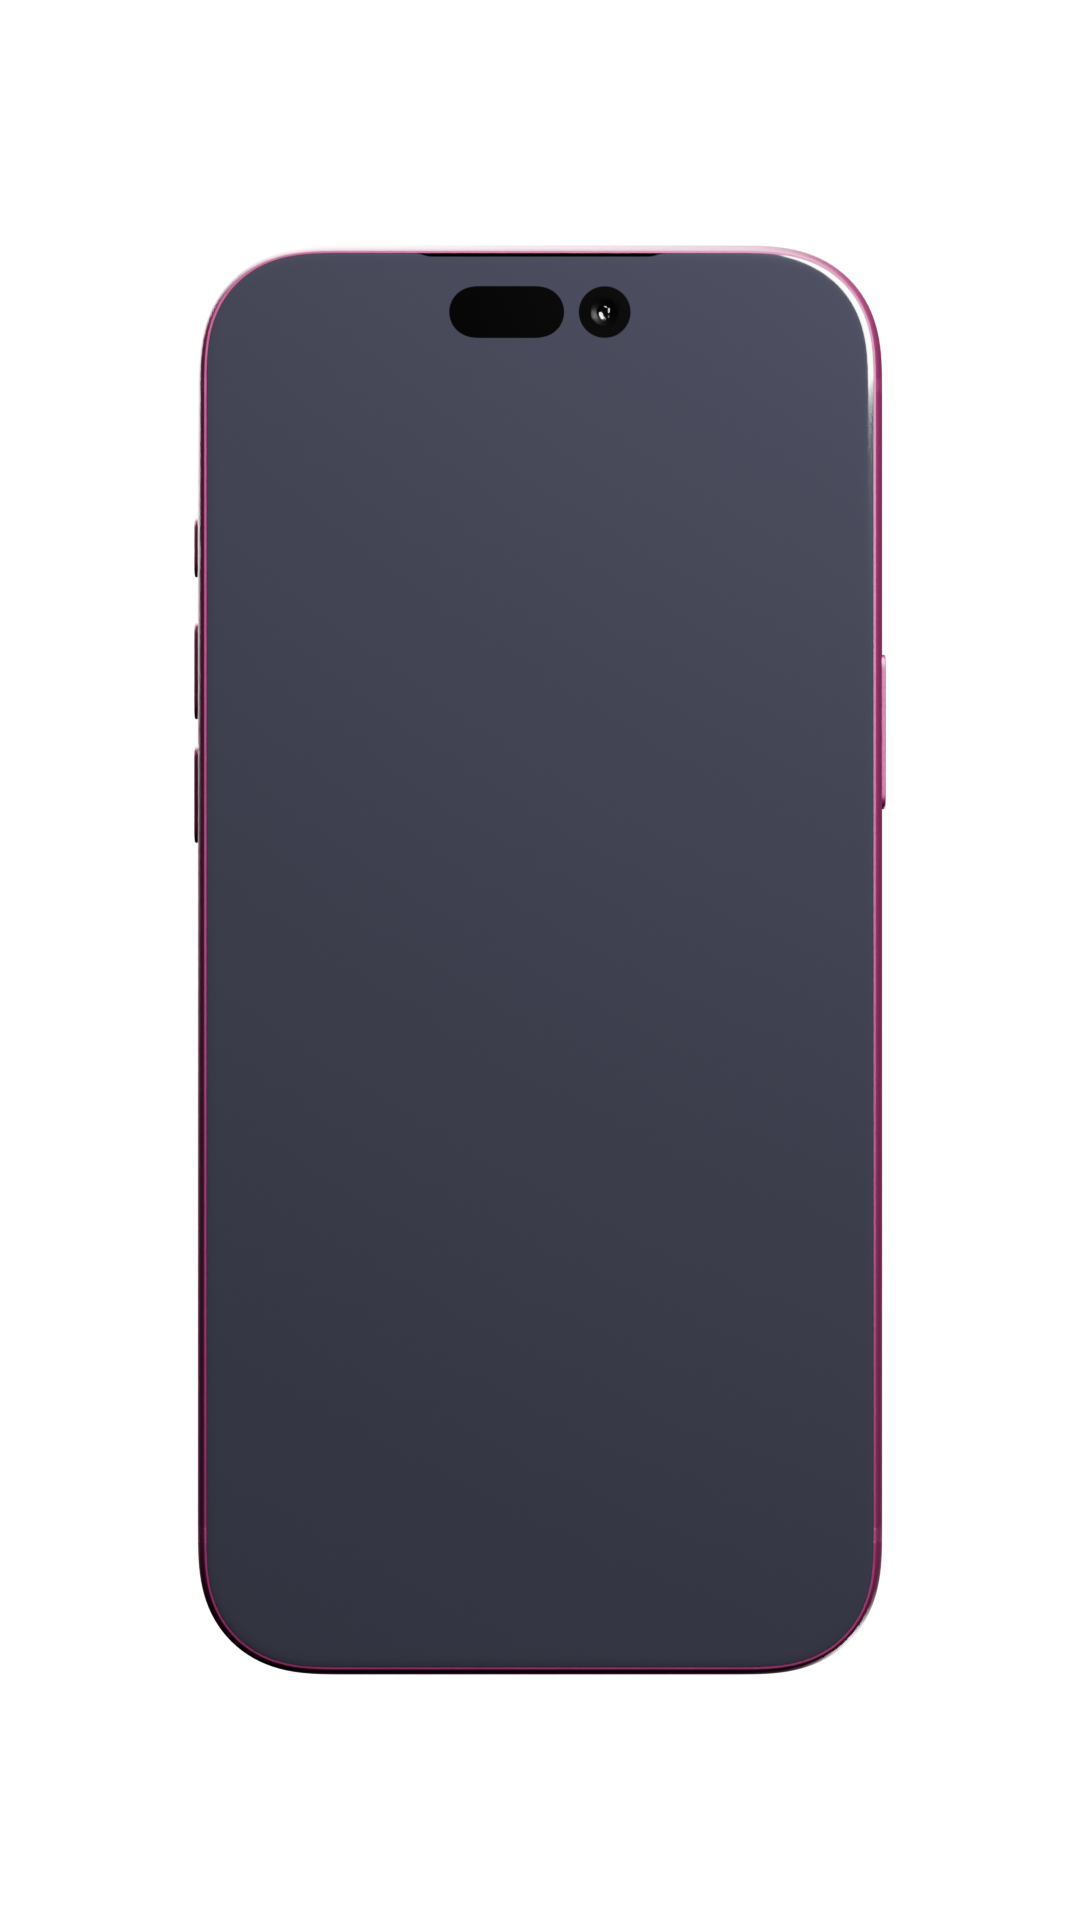
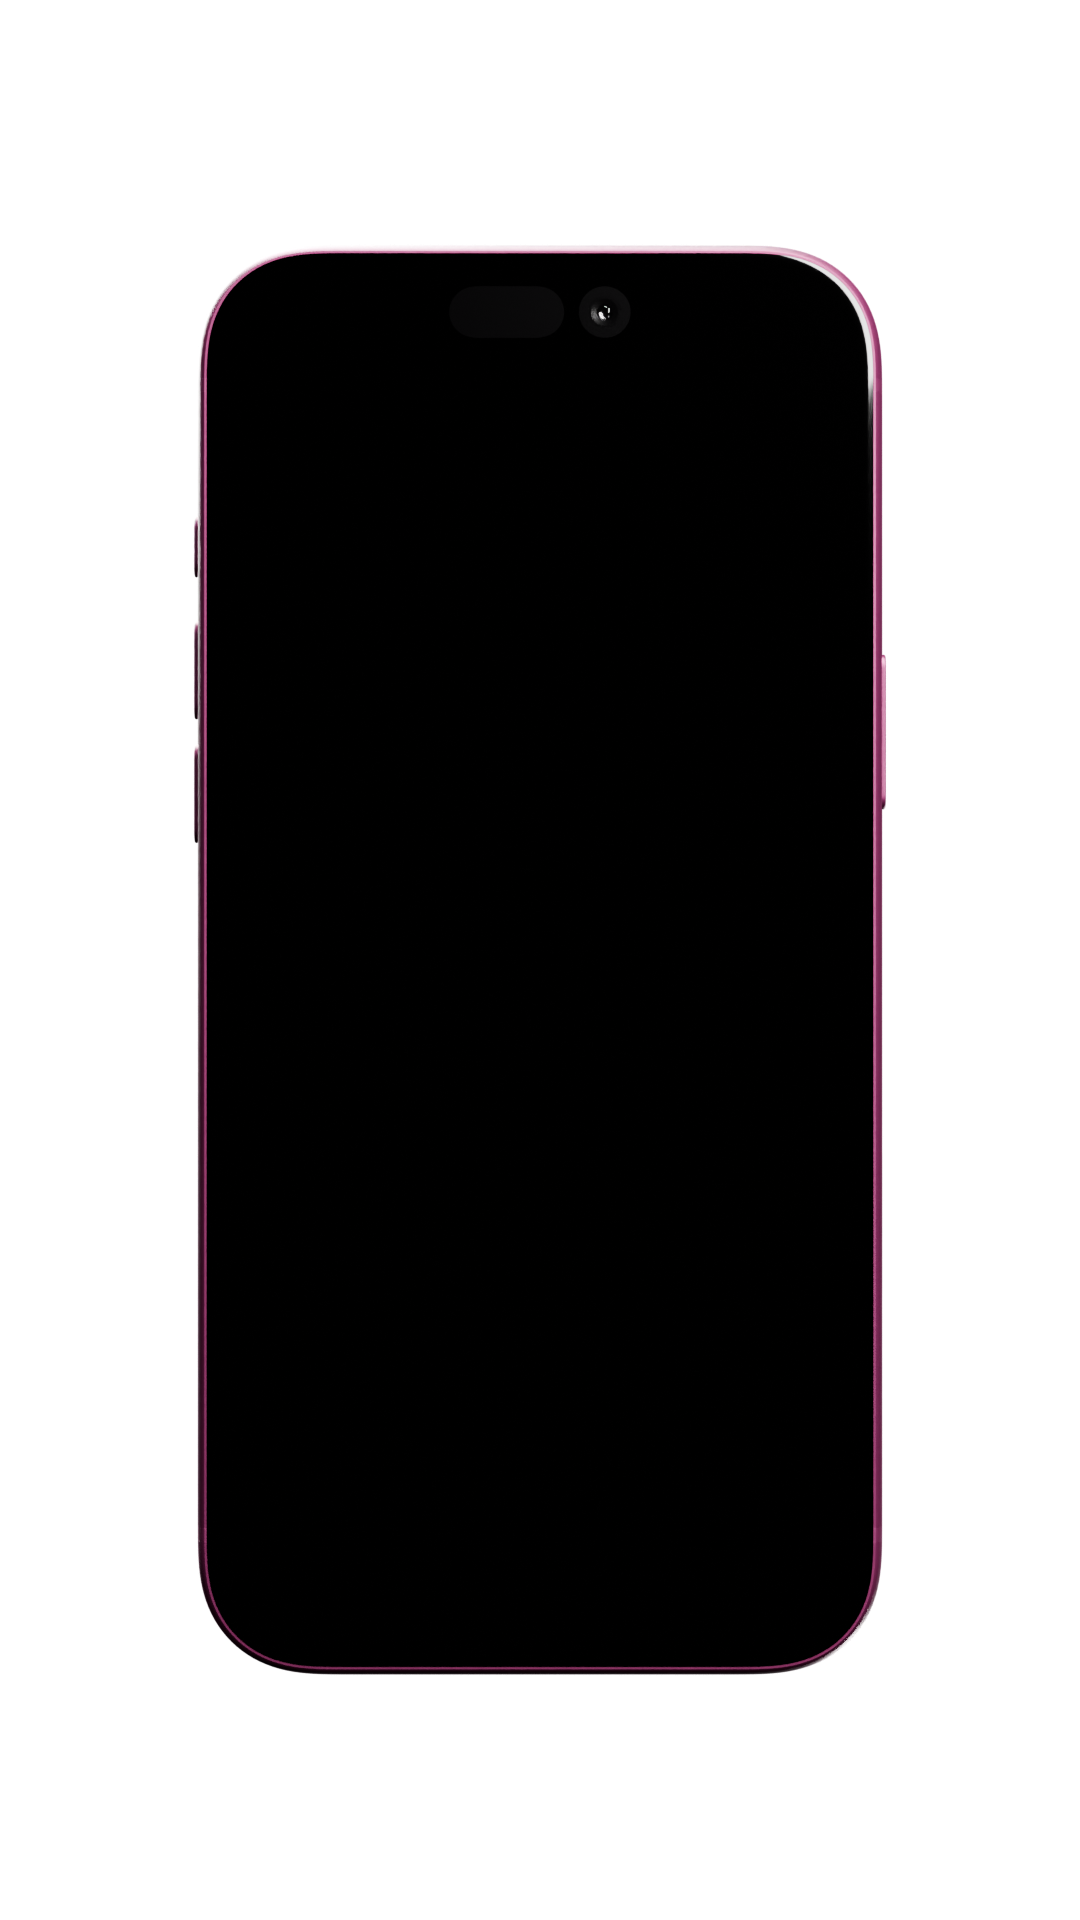
feat(web): hero-композит по-взрослому — дисплей 1:1, чёрный экран, стекло
- новый рендер still_front с ЧЁРНЫМ глянцевым экраном (вместо серой пелены)
- CSS-коробка экрана = проекция ДИСПЛЕЯ из screen_rect.json (аспект 0.4617
  ≈ видео 0.4602) — видео ложится 1:1, вокруг родная чёрная рамка стекла;
  ни полос, ни растяжения
- hero-gloss.webp: кроп дисплея из рендера в mix-blend-mode:screen поверх
  видео — блик линзы фронталки и шин стекла (экран перестал быть наклейкой)
- бейджи/остров пересчитаны под новую коробку

Claude-Session: https://claude.ai/code/session_013PeV2N6Q2ZLNeHFJUt7EWi

diff --git a/web/index.html b/web/index.html
@@ -162,27 +162,31 @@ nav.scrolled{
 .phone-screen{transition:opacity .4s ease}
 .phone.intro picture{visibility:hidden}
 .phone.intro .phone-screen{opacity:0}
-/* экран: СТЕКЛО дисплея по пиксель-замеру рендера hero-iphone.png: x 203..882,
-   y 254..1672 из 1080×1920 (не путать с силуэтом корпуса 194..884 — старый замер
-   по нему давал перекос видео влево); размеры в cqw → масштаб под любой размер */
-.phone-screen{position:absolute;left:18.8%;top:13.23%;width:62.87%;height:73.85%;
-  border-radius:15% / 7.2%;overflow:hidden;background:#050308}
-/* dynamic island (≈28% ширины экрана, пилюля); в видео остров стёрт — рисуем DOM */
-.phone-notch{position:absolute;top:2.1%;left:50%;transform:translateX(-50%);width:28%;height:4.8cqw;background:#050308;border-radius:99px;z-index:7}
-/* видео чата (запись приложения 1320×2868, вычищена в AE): fill — проекция
-   3D-экрана на 4% шире реального дисплея; тянем по ширине (1.04x по X глазу
-   не видно), иначе contain оставляет заметные чёрные поля по бокам */
+/* экран: прямоугольник ДИСПЛЕЯ из screen_rect.json (проекция материала
+   BsXHDwLKqtDOfrW через камеру). Аспект 0.4617 ≈ видео 1320:2868 (0.4602,
+   0.33% добирается fill). Вокруг — родная чёрная рамка стекла из рендера.
+   НЕ мерить по пикселям стекла — оно шире дисплея, будет перекос! */
+.phone-screen{position:absolute;left:20.324%;top:13.842%;width:59.352%;height:72.315%;
+  border-radius:15% / 6.9%;overflow:hidden;background:#050308}
+/* dynamic island (пилюля); в видео остров стёрт — рисуем DOM, блик линзы
+   фронталки добавляет .phone-gloss (настоящий рендер) поверх */
+.phone-notch{position:absolute;top:2.1%;left:50%;transform:translateX(-50%);width:28%;height:5.1cqw;background:#050308;border-radius:99px;z-index:7}
+/* видео чата (запись приложения 1320×2868, вычищена в AE) — 1:1 в дисплей */
 .phone-chat{position:absolute;inset:0;width:100%;height:100%;object-fit:fill;z-index:1}
+/* стекло: кроп дисплея из рендера (hero-gloss.webp) в blend screen поверх видео —
+   чёрное не влияет, остаются блик линзы и шин стекла (экран ≠ наклейка) */
+.phone-gloss{position:absolute;inset:0;width:100%;height:100%;z-index:8;
+  mix-blend-mode:screen;pointer-events:none}
 /* кликабельные копии бейджей TG/VK/MAX — ровно поверх запечённых в видео
-   (координаты = замер финального кадра в долях 1320×2868; fill — без офсетов;
+   (координаты = замер финального кадра в долях 1320×2868; box == видео;
    стиль пилюль = render/iphone/out/badges.html). Появляются по ended (.done) */
-.phone-links{position:absolute;inset:0;z-index:6;pointer-events:none;font-size:2.2cqw}
+.phone-links{position:absolute;inset:0;z-index:6;pointer-events:none;font-size:2.16cqw}
 .pl{position:absolute;top:6.77%;height:3.7%;box-sizing:border-box;
-  display:flex;align-items:center;justify-content:center;gap:.96cqw;
-  background:#241021;border:.14cqw solid rgba(255,255,255,.10);border-radius:99em;
+  display:flex;align-items:center;justify-content:center;gap:.94cqw;
+  background:#241021;border:.13cqw solid rgba(255,255,255,.10);border-radius:99em;
   color:rgba(255,255,255,.92);font-weight:500;text-decoration:none;white-space:nowrap;
   opacity:0;pointer-events:none;transition:opacity .3s ease,transform .2s ease,border-color .2s ease}
-.pl i{width:.87cqw;height:.87cqw;border-radius:50%;flex:none}
+.pl i{width:.85cqw;height:.85cqw;border-radius:50%;flex:none}
 .pl-tg{left:7.8%;width:26.06%}    .pl-tg i{background:#2aabee}
 .pl-vk{left:39.32%;width:28.94%}  .pl-vk i{background:#0077ff}
 .pl-max{left:73.64%;width:18.41%} .pl-max i{background:#8b5cf6}
@@ -541,6 +545,7 @@ footer{background:var(--plum-deep);padding:70px 0 40px;border-top:1px solid var(
           <video class="phone-chat" muted playsinline preload="auto"
                  poster="/hero-chat-poster.webp" src="/hero-chat.mp4"
                  aria-label="Демо: бот присылает уведомление о снижении цены"></video>
+          <img class="phone-gloss" src="/hero-gloss.webp" alt="" aria-hidden="true" decoding="async">
           <nav class="phone-links" aria-label="Бот доступен в мессенджерах">
             <a class="pl pl-tg" href="https://t.me/TryBerryBot" target="_blank" rel="noopener" tabindex="-1"><i></i>Telegram</a>
             <a class="pl pl-vk" href="https://vk.me/tryberrybot" target="_blank" rel="noopener" tabindex="-1"><i></i>ВКонтакте</a>
